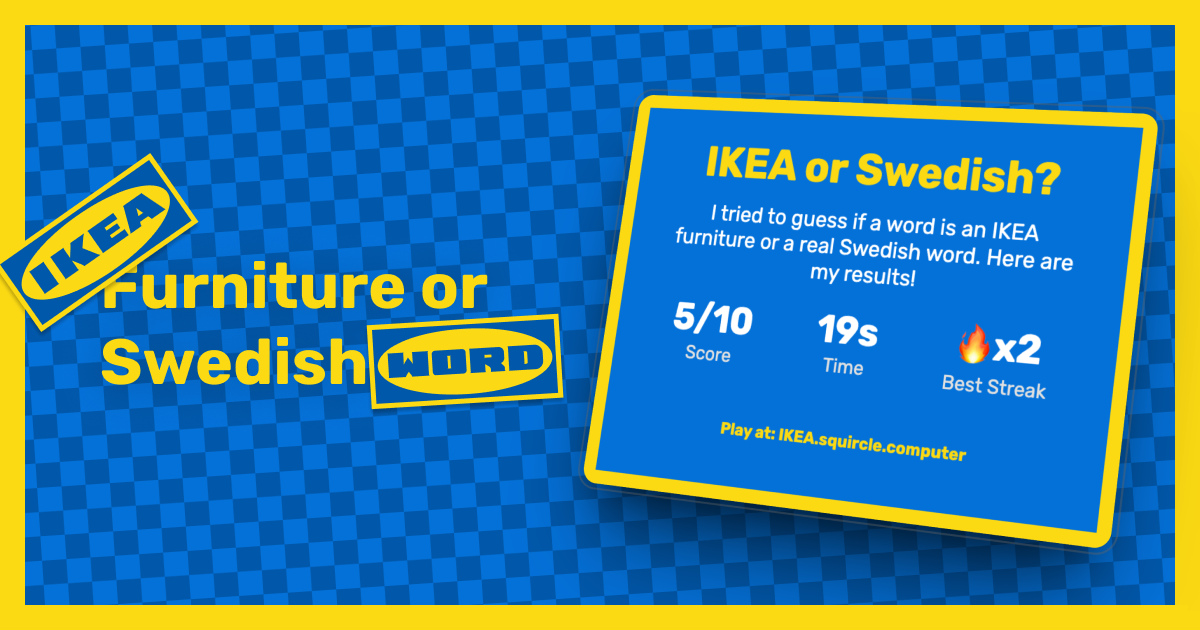
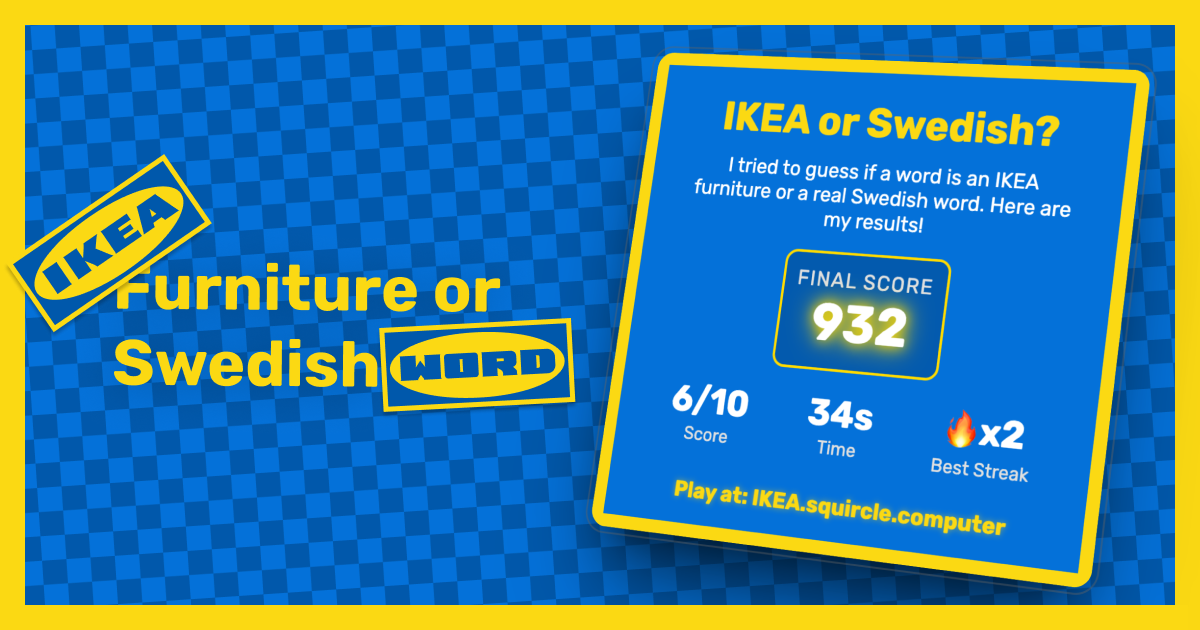
another big update

Changed region(s): [[0.0, 0.0603, 0.9867, 0.9651], [0.555, 0.6032, 0.8633, 0.7841]]

diff --git a/style.css b/style.css
@@ -187,16 +187,39 @@ button:hover { transform: translateY(-3px); }
 #page-footer a:hover { color: #d0b413; }
 
 #share-card-template { position: fixed; top: -9999px; left: -9999px; }
-.share-card-content { width: 400px; background: #0471D9; color: white; font-family: 'Rubik', sans-serif; border: 10px solid #FBD913; display: flex; flex-direction: column; justify-content: center; align-items: center; text-align: center; padding: 20px; box-sizing: border-box; }
-.share-card-description { font-size: 1em; margin: 10px 0 15px 0; color: white; max-width: 90%; }
+.share-card-content {
+    width: 400px;
+    background: #0471D9;
+    color: white;
+    font-family: 'Rubik', sans-serif;
+    border: 10px solid #FBD913;
+    display: flex;
+    flex-direction: column;
+    justify-content: center;
+    align-items: center;
+    text-align: center;
+    
+    /* CORRECTION : On réduit le padding en bas */
+    padding: 20px 20px 15px 20px; /* Haut, Droite, Bas, Gauche */
+    
+    box-sizing: border-box;
+}.share-card-description { font-size: 1em; margin: 10px 0 15px 0; color: white; max-width: 90%; }
 .share-card-content h2 { font-size: 2em; margin: 0; color: #FBD913; }
 .share-card-stats { display: flex; justify-content: space-around; width: 100%; margin-bottom: 20px; }
 .stat { display: flex; flex-direction: column; }
 .stat-value { font-size: 1.8em; font-weight: bold; }
 .stat-label { font-size: 0.9em; color: #e0e0e0; }
-.share-card-footer { font-size: 0.8em; color: #FBD913; font-weight: bold; }
+.share-card-footer {
+    font-size: 1.1em;
+    color: #FBD913;
+    font-weight: bold;
+    /* CORRECTION : On réduit la marge du haut pour rapprocher le footer des stats */
+    margin-top: 0px; 
+    margin-bottom: 0; 
+    text-shadow: 0 0 5px rgba(251, 217, 19, 0.5);
+}
 
-.results-stats-container { display: flex; flex-direction: column; gap: 15px; width: 100%; max-width: 350px; margin: 20px 0; padding: 15px; background-color: rgba(0, 0, 0, 0.1); border-radius: 10px; }
+.results-stats-container { display: flex; flex-direction: column; gap: 15px; width: 100%; max-width: 350px; margin: 5px 0; padding: 15px; background-color: rgba(0, 0, 0, 0.1); border-radius: 10px; }
 .results-stats-container .stat { flex-direction: row; justify-content: space-between; align-items: center; }
 .results-stats-container .stat-value { color: white; }
 .results-stats-container .stat-label { color: #e0e0e0; order: -1; }
@@ -206,3 +229,34 @@ button:hover { transform: translateY(-3px); }
 .holographic-btn::before { content: ''; position: absolute; top: -2px; left: -2px; width: calc(100% + 4px); height: calc(100% + 4px); background: linear-gradient(90deg, #ff00ff, #00ffea, #fffc00, #ff00ff); background-size: 400% 100%; animation: holographic-border-scroll 8s linear infinite; z-index: -1; filter: blur(3px); }
 @keyframes holographic-border-scroll { 0% { background-position: 0% 50%; } 100% { background-position: 400% 50%; } }
 #share-button:hover { background-color: rgba(0, 60, 110, 0.6); }
+
+
+.performance-score-container {
+    margin-bottom: 15px;
+    padding: 10px;
+    border: 2px solid #ffdb00;
+    background: rgba(0, 0, 0, 0.2);
+    border-radius: 10px;
+}
+
+.performance-score-label {
+    font-size: 1em;
+    color: #e0e0e0;
+    text-transform: uppercase;
+    letter-spacing: 1px;
+}
+
+.performance-score-value {
+    font-size: 2.5em;
+    font-weight: bold;
+    color: #ffffff;
+    text-shadow: 0 0 10px #ffdb00, 0 0 20px #ffdb00;
+    animation: pulse-score 2s infinite;
+}
+
+/* Animation de pulsation pour le score */
+@keyframes pulse-score {
+    0% { transform: scale(1); }
+    50% { transform: scale(1.05); }
+    100% { transform: scale(1); }
+}

diff --git a/script.js b/script.js
@@ -179,7 +179,7 @@ document.addEventListener('DOMContentLoaded', () => {
         },
         {
             word: 'Sorg',
-            image: 'images/word/sorg.jpg',
+            image: 'images/word/Sorrow.webp',
             description: 'Sorrow is an emotion, feeling, or sentiment. Sorrow is more "intense" than sadness, implies a long-term state and suggests — unlike unhappiness — a degree of resignation.',
             type: 'swedish'
         },
@@ -531,6 +531,12 @@ document.addEventListener('DOMContentLoaded', () => {
         const endTime = new Date();
         timeTaken = Math.round((endTime - startTime) / 1000);
         if (currentStreak > bestStreak) { bestStreak = currentStreak; }
+        const baseScore = score * 100;
+        const streakBonus = bestStreak * 50;
+        const maxTime = questions.length * QUESTION_TIME;
+        const timeBonus = Math.max(0, (maxTime - timeTaken) * 2);
+        const performanceScore = baseScore + streakBonus + timeBonus;
+        document.getElementById('performance-score').textContent = performanceScore;
         document.getElementById('final-score').textContent = `${score}/${questions.length}`;
         document.getElementById('final-time').textContent = `${timeTaken}s`;
         document.getElementById('final-streak').textContent = `🔥x${bestStreak}`;
@@ -541,9 +547,15 @@ document.addEventListener('DOMContentLoaded', () => {
 
     function generateShareCard() {
         const cardTemplate = document.getElementById('share-card-template');
+            const baseScore = score * 100;
+            const streakBonus = bestStreak * 50;
+            const maxTime = questions.length * QUESTION_TIME;
+            const timeBonus = Math.max(0, (maxTime - timeTaken) * 2);
+            const performanceScore = baseScore + streakBonus + timeBonus;
         document.getElementById('share-score').textContent = `${score}/${questions.length}`;
         document.getElementById('share-time').textContent = `${timeTaken}s`;
         document.getElementById('share-streak').textContent = `🔥x${bestStreak}`;
+        document.getElementById('share-performance-score').textContent = performanceScore;
         shareButton.textContent = 'Generating...';
         shareButton.disabled = true;
         cardTemplate.style.display = 'block';

diff --git a/index.html b/index.html
@@ -18,7 +18,7 @@
     <meta property="og:url" content="https://ikea.squircle.computer">
     <meta property="og:type" content="website">
     <meta property="og:title" content="IKEA Furniture or Swedish Word?">
-    <meta property="og:description" content="Think you can tell the difference between IKEA furniture and real Swedish words? Can you get a perfect score?">
+    <meta property="og:description" content="Think you can tell the difference between IKEA furniture and real Swedish words? Can you get a perfect score? ">
     <meta property="og:image" content="https://ikea.squircle.computer/images/ogimage.png">
 
     <!-- Twitter Meta Tags -->
@@ -76,8 +76,12 @@
             <div class="share-card-content">
                 <h2>IKEA or Swedish?</h2>
                 <p class="share-card-description">
-                    qgmdljf kzemoasmfoqepo fufqsodffpouq efjdsmlfjks mdlkgjslvnq smdkjfm zejfmosdi foeiuz qproeiua zrpodf
+                      I tried to guess if a word is an IKEA furniture or a real Swedish word. Here are my results!
                 </p>
+                <div class="performance-score-container">
+                    <div class="performance-score-label">Final Score</div>
+                    <div class="performance-score-value" id="share-performance-score"></div>
+                </div>
                 <div class="share-card-stats">
                     <div class="stat">
                         <div class="stat-value" id="share-score"></div>
@@ -101,6 +105,10 @@
         <div id="results-screen" class="screen">
            <div style="margin-top: -25px;"><h2>Thx you for playing!</h2></div>
             <div style="color: #FBD913; margin-top: -30px;"><p>Play again or share your results with a beautiful card!</p></div>
+                <div class="performance-score-container">
+        <div class="performance-score-label">Final Score</div>
+        <div class="performance-score-value" id="performance-score"></div>
+    </div>
             <div class="results-stats-container">
                 <div class="stat">
                     <div class="stat-value" id="final-score"></div>
